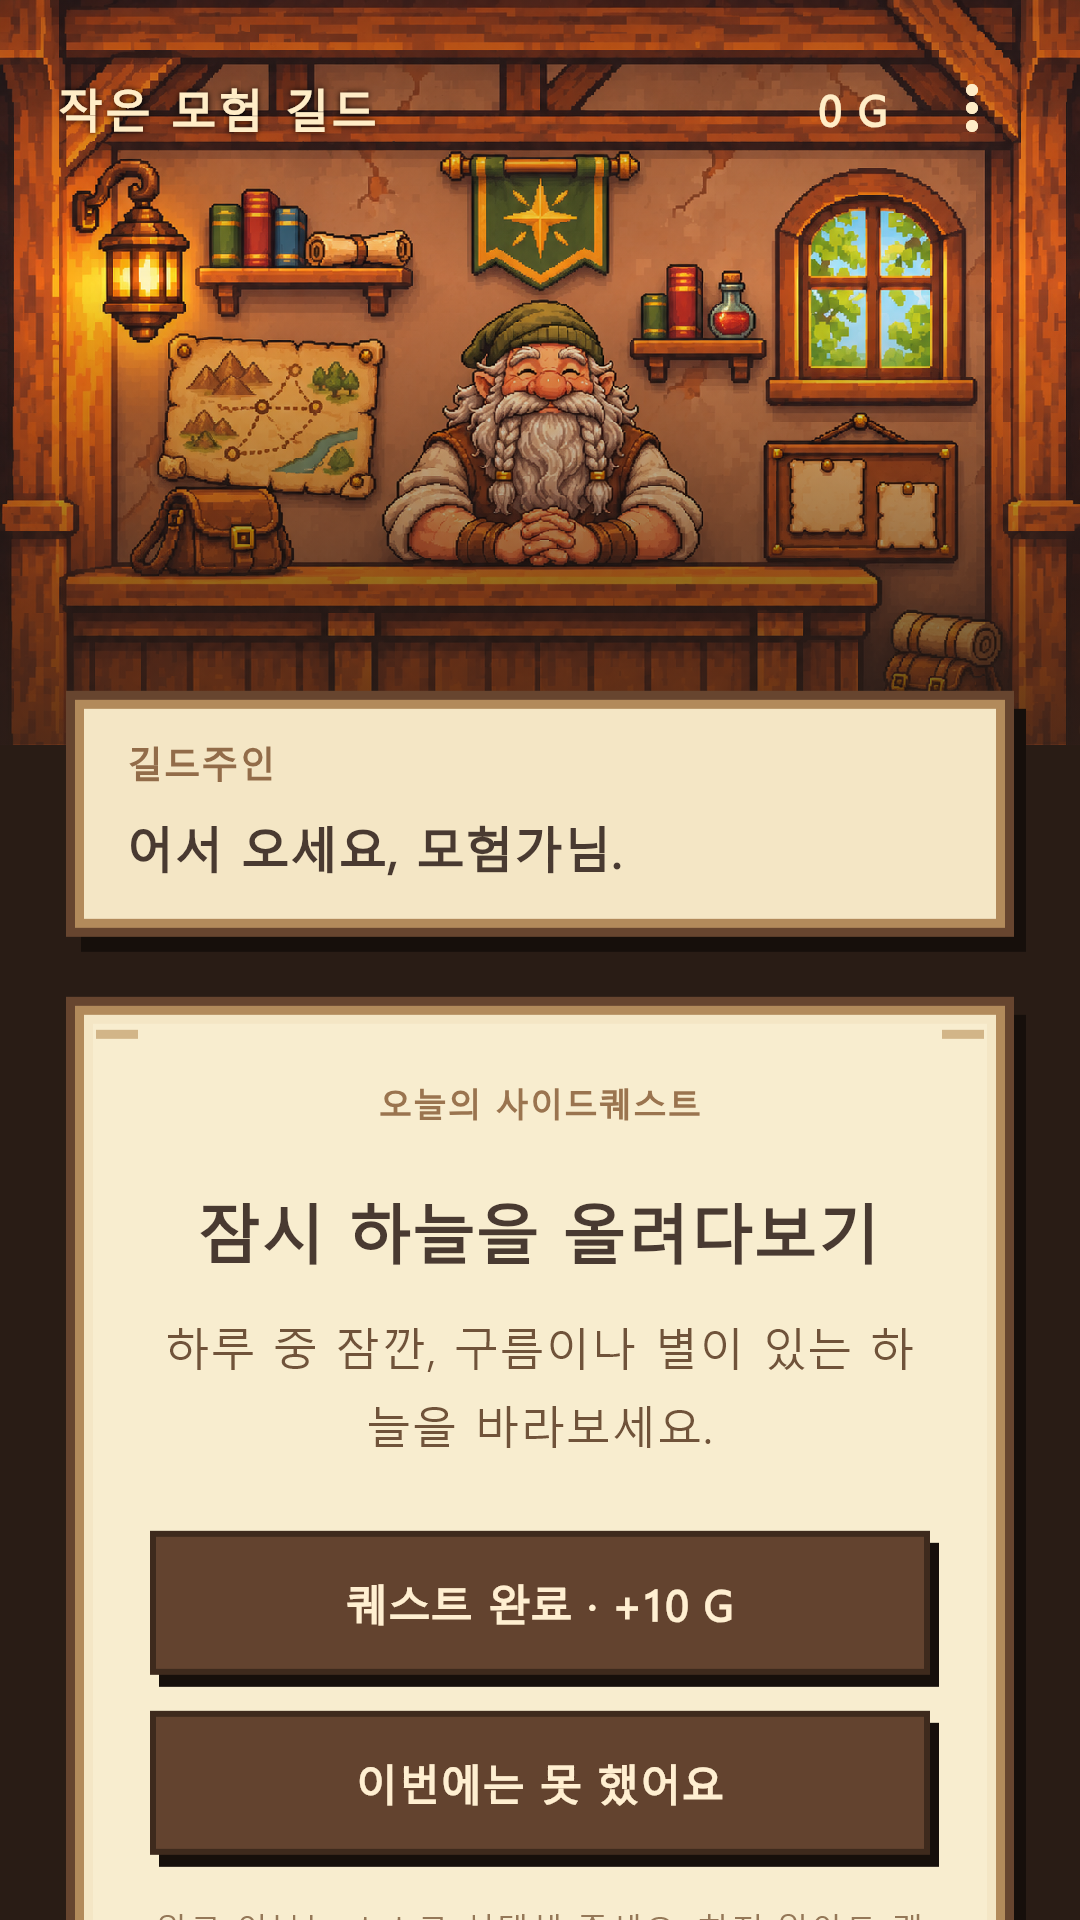
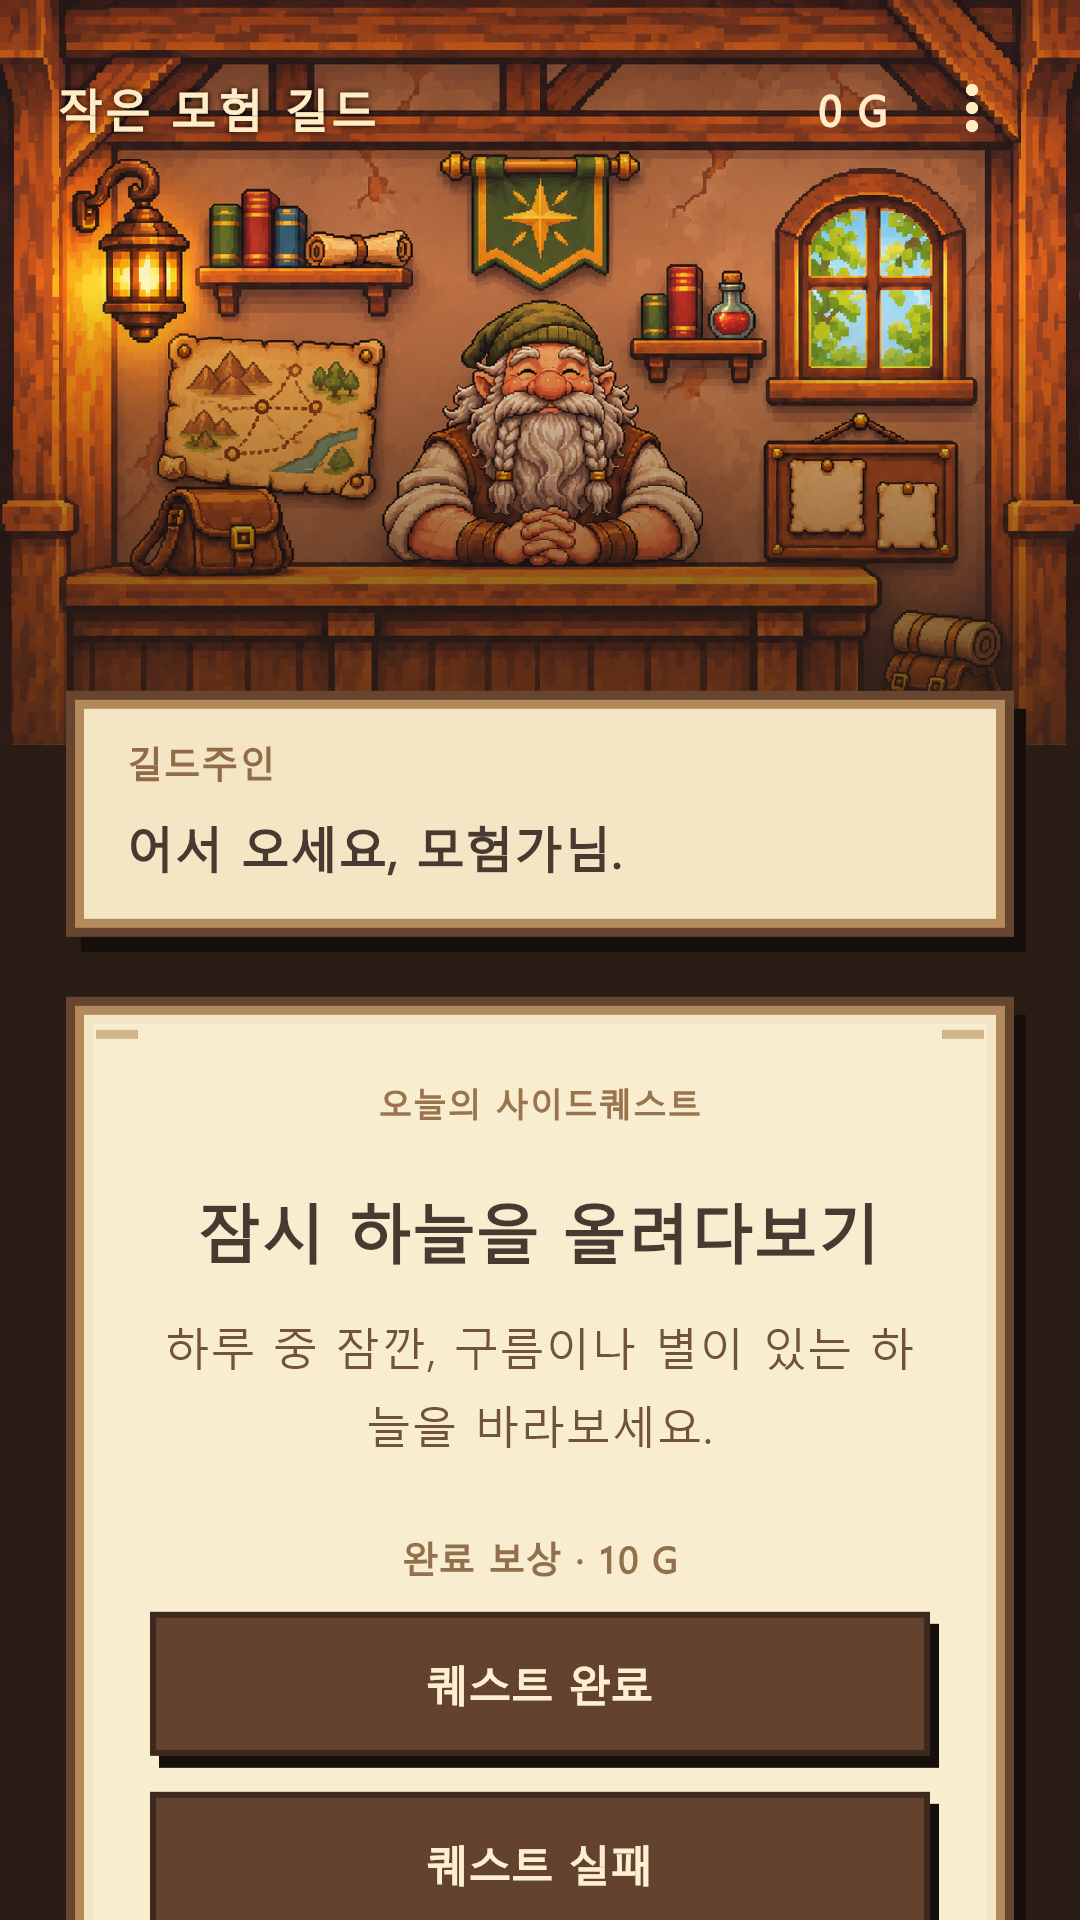
Introduce first launch guild tutorial

Changed region(s): [[0.1222, 0.7812, 0.8861, 1.0]]

diff --git a/lib/main.dart b/lib/main.dart
@@ -41,6 +41,8 @@ class _GuildHomeState extends State<GuildHome> with WidgetsBindingObserver {
   Timer? dateTimer;
   Timer? greetingTimer;
   bool greetingFinished = false;
+  bool? tutorialComplete;
+  int tutorialStep = 0;
 
   String get dateKey {
     final d = DateTime.now();
@@ -52,11 +54,6 @@ class _GuildHomeState extends State<GuildHome> with WidgetsBindingObserver {
     super.initState();
     WidgetsBinding.instance.addObserver(this);
     load();
-    greetingTimer = Timer(
-        Duration(milliseconds: max(3000, greeting.runes.length * 150 + 1000)),
-        () {
-      if (mounted) setState(() => greetingFinished = true);
-    });
     dateTimer = Timer.periodic(const Duration(seconds: 30), (_) {
       if (today != null && today!['date'] != dateKey && !busy) load();
     });
@@ -110,10 +107,53 @@ class _GuildHomeState extends State<GuildHome> with WidgetsBindingObserver {
           prefs = store;
           today = saved;
           error = null;
+          tutorialComplete ??= store.getBool('tutorial_complete') ?? false;
         });
+      }
+      if (tutorialComplete == true &&
+          !greetingFinished &&
+          greetingTimer == null) {
+        startGreeting();
       }
     } catch (_) {
       if (mounted) setState(() => error = '오늘의 의뢰를 불러오지 못했어요. 다시 시도해 주세요.');
+    }
+  }
+
+  void startGreeting() {
+    greetingTimer?.cancel();
+    greetingTimer = Timer(
+        Duration(milliseconds: max(3000, greeting.runes.length * 150 + 1000)),
+        () {
+      if (mounted) setState(() => greetingFinished = true);
+    });
+  }
+
+  Future<void> advanceTutorial() async {
+    if (busy || prefs == null) return;
+    if (tutorialStep < guildTutorial.length - 1) {
+      setState(() => tutorialStep++);
+      return;
+    }
+    setState(() => busy = true);
+    try {
+      if (!await prefs!.setBool('tutorial_complete', true)) {
+        throw Exception('저장 실패');
+      }
+      if (mounted) {
+        setState(() {
+          tutorialComplete = true;
+          greetingFinished = false;
+        });
+      }
+      startGreeting();
+    } catch (_) {
+      if (mounted) {
+        ScaffoldMessenger.of(context).showSnackBar(
+            const SnackBar(content: Text('안내 진행 상태를 저장하지 못했어요. 다시 시도해 주세요.')));
+      }
+    } finally {
+      if (mounted) setState(() => busy = false);
     }
   }
 
@@ -413,7 +453,10 @@ class _GuildHomeState extends State<GuildHome> with WidgetsBindingObserver {
                                     fontWeight: FontWeight.w800,
                                     letterSpacing: .5)),
                             const SizedBox(height: 7),
-                            Text(greeting,
+                            Text(
+                                tutorialComplete == false
+                                    ? guildTutorial[tutorialStep]
+                                    : greeting,
                                 style: const TextStyle(
                                     color: ink,
                                     fontSize: 16,
@@ -421,7 +464,19 @@ class _GuildHomeState extends State<GuildHome> with WidgetsBindingObserver {
                                     height: 1.6)),
                           ])),
                       const SizedBox(height: 20),
-                      if (error != null) ...[
+                      if (tutorialComplete == false) ...[
+                        Center(
+                            child: Text(
+                                '${tutorialStep + 1} / ${guildTutorial.length}',
+                                style: const TextStyle(
+                                    color: Color(0xffc8ae8b), fontSize: 12))),
+                        const SizedBox(height: 12),
+                        GuildButton(
+                            label: tutorialStep == guildTutorial.length - 1
+                                ? '모험 시작하기'
+                                : '다음 이야기',
+                            onPressed: busy ? null : advanceTutorial),
+                      ] else if (error != null) ...[
                         Text(error!,
                             style: const TextStyle(color: Color(0xffffd3ae))),
                         TextButton(onPressed: load, child: const Text('다시 시도')),
@@ -496,19 +551,26 @@ class _GuildHomeState extends State<GuildHome> with WidgetsBindingObserver {
                                         height: 1.7)),
                                 const SizedBox(height: 22),
                                 if (!resolved) ...[
+                                  const Center(
+                                      child: Text('완료 보상 · 10 G',
+                                          style: TextStyle(
+                                              color: Color(0xff92704c),
+                                              fontSize: 12,
+                                              fontWeight: FontWeight.w700))),
+                                  const SizedBox(height: 10),
                                   GuildButton(
-                                      label: '퀘스트 완료 · +10 G',
+                                      label: '퀘스트 완료',
                                       onPressed: busy
                                           ? null
                                           : () => update('completed')),
                                   const SizedBox(height: 8),
                                   GuildButton(
-                                      label: '이번에는 못 했어요',
+                                      label: '퀘스트 실패',
                                       onPressed:
                                           busy ? null : () => update('failed')),
                                 ] else
                                   GuildButton(
-                                      label: completed ? '완료한 퀘스트' : '오늘은 쉬어가요',
+                                      label: completed ? '퀘스트 완료' : '퀘스트 실패',
                                       onPressed: null),
                                 const SizedBox(height: 12),
                                 Text(

diff --git a/test/widget_test.dart b/test/widget_test.dart
@@ -5,7 +5,7 @@ import 'package:little_adventure_guild/main.dart';
 
 void main() {
   testWidgets('퀘스트를 열고 완료한 상태가 다시 열어도 유지된다', (tester) async {
-    SharedPreferences.setMockInitialValues({});
+    SharedPreferences.setMockInitialValues({'tutorial_complete': true});
     await tester.pumpWidget(const GuildApp());
     await tester.pumpAndSettle();
     expect(find.text('양피지 열기'), findsNothing);
@@ -16,21 +16,21 @@ void main() {
     await tester.pumpAndSettle();
     await tester.tap(find.text('양피지 열기'));
     await tester.pumpAndSettle();
-    expect(find.text('퀘스트 완료 · +10 G'), findsOneWidget);
-    await tester.ensureVisible(find.text('퀘스트 완료 · +10 G'));
+    expect(find.text('퀘스트 완료'), findsOneWidget);
+    await tester.ensureVisible(find.text('퀘스트 완료'));
     await tester.pumpAndSettle();
-    await tester.tap(find.text('퀘스트 완료 · +10 G'));
+    await tester.tap(find.text('퀘스트 완료'));
     await tester.pumpAndSettle();
-    expect(find.text('완료한 퀘스트'), findsOneWidget);
+    expect(find.text('퀘스트 완료'), findsOneWidget);
     expect(find.text('10 G'), findsOneWidget);
     await tester.pumpWidget(const GuildApp(key: ValueKey('restart')));
     await tester.pumpAndSettle();
     await tester.pump(const Duration(seconds: 3));
     await tester.pumpAndSettle();
-    expect(find.text('완료한 퀘스트'), findsOneWidget);
+    expect(find.text('퀘스트 완료'), findsOneWidget);
   });
   testWidgets('길드 메뉴에서 안내를 열고 닫는다', (tester) async {
-    SharedPreferences.setMockInitialValues({});
+    SharedPreferences.setMockInitialValues({'tutorial_complete': true});
     await tester.pumpWidget(const GuildApp());
     await tester.pumpAndSettle();
     await tester.tap(find.byTooltip('길드 메뉴'));
@@ -51,15 +51,16 @@ void main() {
     final date =
         '${d.year}-${d.month.toString().padLeft(2, '0')}-${d.day.toString().padLeft(2, '0')}';
     SharedPreferences.setMockInitialValues({
+      'tutorial_complete': true,
       'today': '{"date":"$date","quest":0,"opened":true,"completed":false}'
     });
     await tester.pumpWidget(const GuildApp());
     await tester.pumpAndSettle();
     await tester.pump(const Duration(seconds: 3));
     await tester.pumpAndSettle();
-    await tester.ensureVisible(find.text('퀘스트 완료 · +10 G'));
+    await tester.ensureVisible(find.text('퀘스트 완료'));
     await tester.pumpAndSettle();
-    await tester.tap(find.text('퀘스트 완료 · +10 G'));
+    await tester.tap(find.text('퀘스트 완료'));
     await tester.pumpAndSettle();
     await tester.drag(find.byType(Scrollable).first, const Offset(0, 900));
     await tester.pumpAndSettle();
@@ -88,6 +89,7 @@ void main() {
     final date =
         '${d.year}-${d.month.toString().padLeft(2, '0')}-${d.day.toString().padLeft(2, '0')}';
     SharedPreferences.setMockInitialValues({
+      'tutorial_complete': true,
       'today':
           '{"date":"$date","quest":0,"opened":true,"completed":false,"gold":20}'
     });
@@ -95,11 +97,38 @@ void main() {
     await tester.pumpAndSettle();
     await tester.pump(const Duration(seconds: 3));
     await tester.pumpAndSettle();
-    await tester.ensureVisible(find.text('이번에는 못 했어요'));
+    await tester.ensureVisible(find.text('퀘스트 실패'));
     await tester.pumpAndSettle();
-    await tester.tap(find.text('이번에는 못 했어요'));
+    await tester.tap(find.text('퀘스트 실패'));
     await tester.pumpAndSettle();
-    expect(find.text('오늘은 쉬어가요'), findsOneWidget);
+    expect(find.text('퀘스트 실패'), findsOneWidget);
     expect(find.text('20 G'), findsOneWidget);
+  });
+  testWidgets('첫 실행에 길드주인의 안내가 나오고 완료 후 다시 나오지 않는다', (tester) async {
+    SharedPreferences.setMockInitialValues({});
+    await tester.pumpWidget(const GuildApp());
+    await tester.pumpAndSettle();
+    expect(find.textContaining('새로운 모험가로군'), findsOneWidget);
+    expect(find.text('양피지 열기'), findsNothing);
+    for (var i = 0; i < 5; i++) {
+      await tester.ensureVisible(find.text('다음 이야기'));
+      await tester.pumpAndSettle();
+      await tester.tap(find.text('다음 이야기'));
+      await tester.pumpAndSettle();
+    }
+    expect(find.text('모험 시작하기'), findsOneWidget);
+    await tester.ensureVisible(find.text('모험 시작하기'));
+    await tester.pumpAndSettle();
+    await tester.tap(find.text('모험 시작하기'));
+    await tester.pumpAndSettle();
+    await tester.pump(const Duration(seconds: 3));
+    await tester.pumpAndSettle();
+    expect(find.text('양피지 열기'), findsOneWidget);
+    await tester.pumpWidget(const GuildApp(key: ValueKey('tutorial restart')));
+    await tester.pumpAndSettle();
+    expect(find.text('다음 이야기'), findsNothing);
+    await tester.pump(const Duration(seconds: 3));
+    await tester.pumpAndSettle();
+    expect(find.text('양피지 열기'), findsOneWidget);
   });
 }

diff --git a/lib/guild_content.dart b/lib/guild_content.dart
@@ -11,3 +11,13 @@ const quests = <(String, String)>[
   ('오래된 사진 꺼내 보기', '마음에 남아 있는 사진 한 장을 들여다보세요.'),
   ('안부 한 줄 보내기', '생각나는 사람에게 가볍게 안부를 전해보세요.'),
 ];
+
+// 첫 실행에서 길드주인이 들려주는 안내입니다. 자유롭게 수정할 수 있습니다.
+const guildTutorial = <String>[
+  '오, 새로운 모험가로군! 어서 오게. 여긴 바쁜 하루 속 작은 모험을 찾는 길드라네.',
+  '매일 양피지 하나를 건네주지. 그 안에는 자네가 오늘 만날 수 있는 작은 의뢰가 적혀 있다네.',
+  '의뢰를 마쳤다면 퀘스트 완료를, 오늘은 못 했다면 퀘스트 실패를 눌러 주게. 못 해도 괜찮네. 길드는 언제나 열려 있으니까.',
+  '정말 마쳤는지 어떻게 아느냐고? 허허, 우리 길드에는 감시 마법이 없다네. 자네의 보고를 믿는 게 이곳의 오래된 규칙이지.',
+  '의뢰를 완료하면 골드를 주겠네. 길드 메뉴의 꾸미기에서 모은 골드로 장식을 사고, 이곳에 놓을 수 있다네.',
+  '자, 서두를 것 없네. 양피지를 열고 오늘의 작은 모험을 만나 보게나!',
+];
